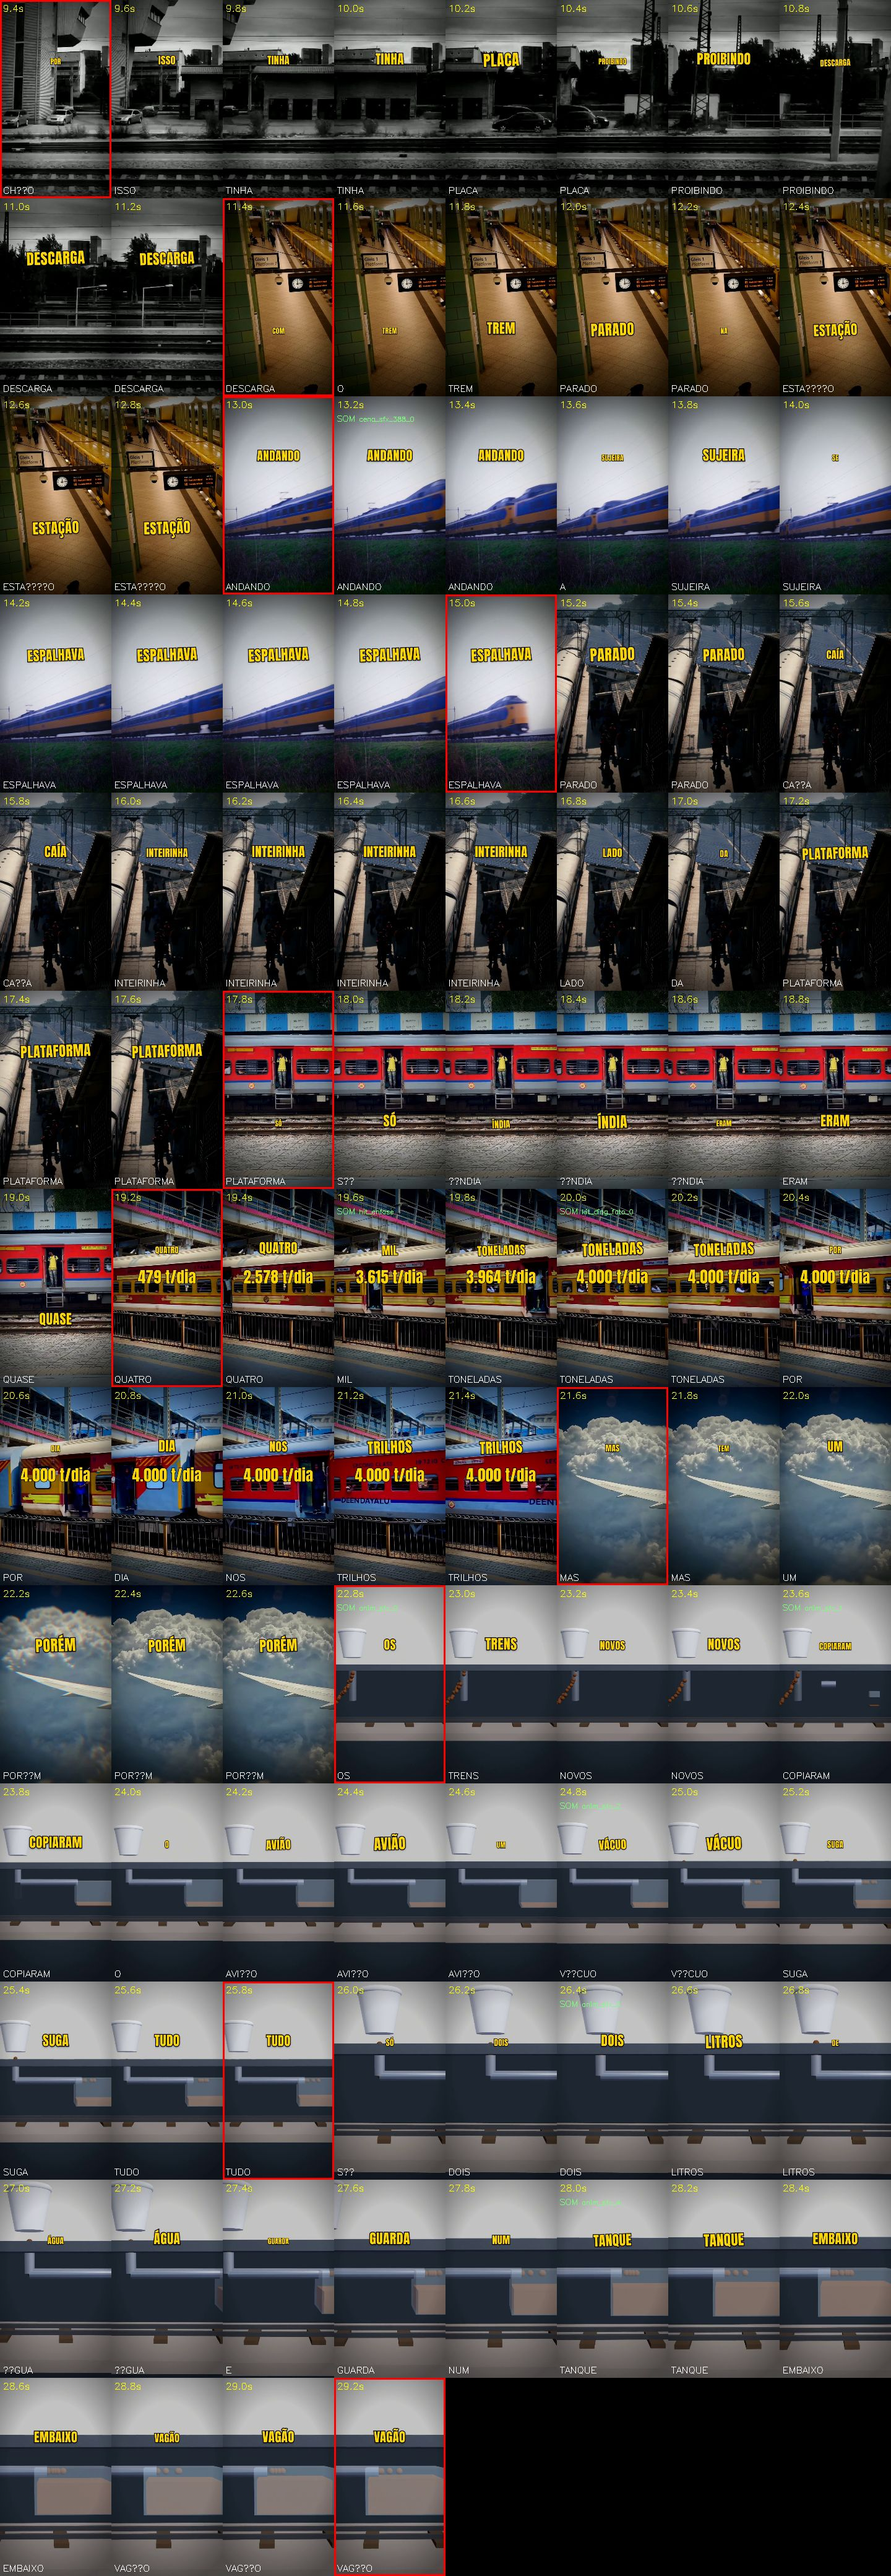
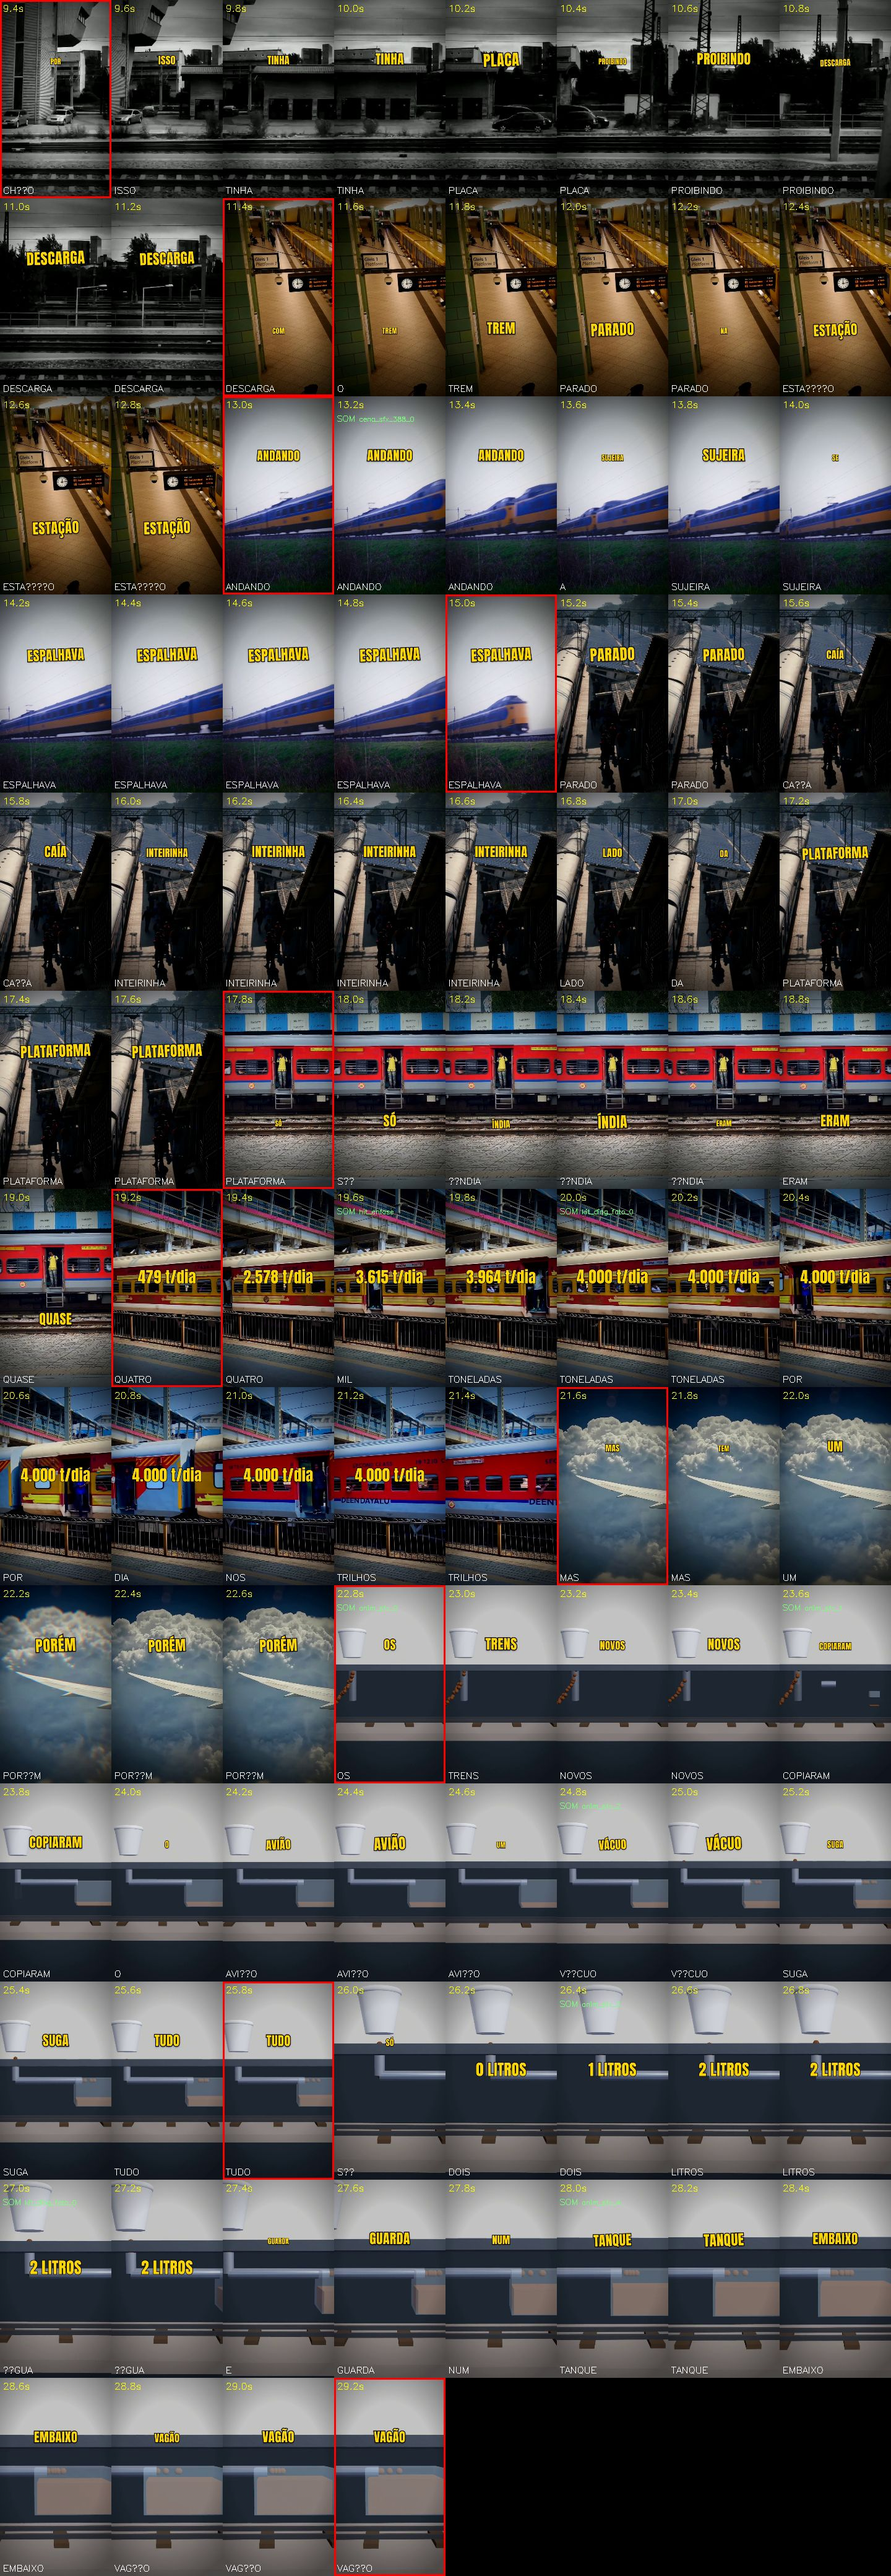
Contador: ano sem ponto de milhar e número pequeno sem contagem
Claude-Session: https://claude.ai/code/session_01Pz7vxCjdPfCnR3b978TXUQ

diff --git a/remotion/src/Short.tsx b/remotion/src/Short.tsx
@@ -188,13 +188,15 @@ const MarcaErro: React.FC<{tipo: string}> = ({tipo}) => {
 // CONTADOR (número/dinheiro/escala): sobe até o valor em 24 quadros, amarelo da legenda, contorno preto
 const Contador: React.FC<{de: number; ate: number; prefixo: string; sufixo: string}> = ({de, ate, prefixo, sufixo}) => {
   const f = useCurrentFrame();
-  const v = interpolate(f, [0, 24], [de, ate], {extrapolateRight: 'clamp', easing: Easing.out(Easing.cubic)});
+  // número pequeno (2 litros) entra pronto (sem "1 LITROS"); ano (1900–2100) sem ponto de milhar
+  const v = ate < 10 ? ate : interpolate(f, [0, 24], [de, ate], {extrapolateRight: 'clamp', easing: Easing.out(Easing.cubic)});
+  const ano = ate >= 1900 && ate <= 2100 && de >= 1000;
   const pulo = interpolate(f, [24, 28, 32], [1, 1.1, 1], {extrapolateLeft: 'clamp', extrapolateRight: 'clamp'});
   return (
     <AbsoluteFill style={{alignItems: 'center', justifyContent: 'center', paddingBottom: 220}}>
       <div style={{fontFamily: 'Anton, Impact, sans-serif', fontSize: 150, color: '#FFD700', WebkitTextStroke: '10px black',
         paintOrder: 'stroke fill', transform: `scale(${pulo})`, letterSpacing: 2}}>
-        {prefixo}{Math.round(v).toLocaleString('pt-BR')}{sufixo}
+        {prefixo}{ano ? String(Math.round(v)) : Math.round(v).toLocaleString('pt-BR')}{sufixo}
       </div>
     </AbsoluteFill>
   );

diff --git a/projetos/vd016_banheiro_trem/saida/auditoria.md b/projetos/vd016_banheiro_trem/saida/auditoria.md
@@ -2,10 +2,10 @@
 
 ## Medições
 - ✅ Loudness -14.3 LUFS (alvo −14)
-- ℹ Música 13 dB abaixo da voz sob a fala (definido pela especificação, não por esta medição)
-- ⚠ Sons de função em cima de palavra: ['kit_ding_fato_0.mp3', 'cena_sfx_202_0.mp3', 'cena_sfx_388_0.mp3']
+- ℹ Música 16 dB abaixo da voz sob a fala (definido pela especificação, não por esta medição)
+- ⚠ Sons de função em cima de palavra: ['kit_ding_fato_0.mp3', 'kit_ding_fato_0.mp3', 'cena_sfx_202_0.mp3', 'cena_sfx_388_0.mp3']
 - ✅ Quadros muito escuros: 0 (em )
-- ✅ Movimento nos 2 primeiros segundos: 71.9 (gancho precisa de ação)
+- ✅ Movimento nos 2 primeiros segundos: 72.0 (gancho precisa de ação)
 - ✅ Cenas curtas demais (<0,9 s, piscam): nenhuma
 - ✅ Cenas longas (>3,5 s, risco de tédio): nenhuma
 - ✅ Palavras que ficam < 0,17 s na tela (ilegíveis): 0 []
